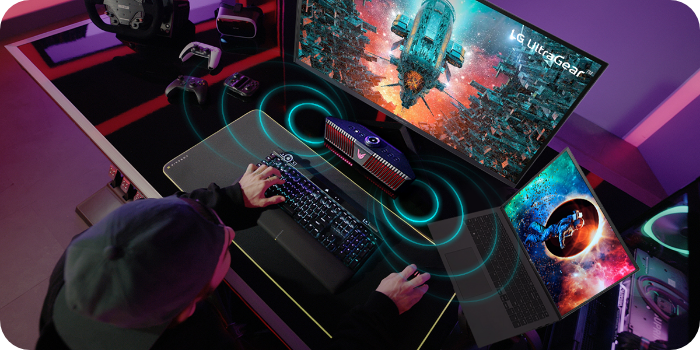
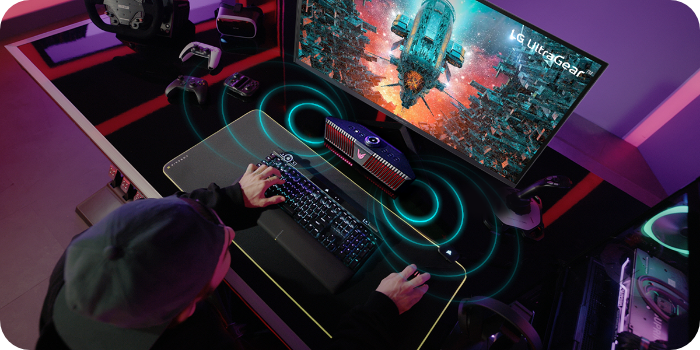
대만 수정

Changed region(s): [[0.6, 0.4286, 0.93, 1.0]]

diff --git a/src/tw/index.html b/src/tw/index.html
@@ -1191,27 +1191,6 @@
 													</a>
 												</div>
 											</div>
-											<div class="product__layer">
-												<a href="#" class="product__anchor"><span class="sr-only">detail view</span></a>
-												<div class="product__target">
-													<a href="https://www.lg.com/uk/fridge-freezers/lg-gsxv91bsae" target="_blank"
-														data-link-name="memberdays_productMouseHover_greenlife_GSXV91BSAE"
-														data-link-area="memberdays_2022"
-														class="product__link">
-														<div class="product__img">
-															<img src="../assets/images/tw/img_product_showroom_pastime01_02.png" alt="LG gram 16’’ 輕贏隨型 極致輕薄筆電 - 沉靜灰 (i5) 配備NVIDIA® GeForce® GTX™">
-														</div>
-														<div class="product__right">
-															<p class="product__name">LG gram 16’’ 輕贏隨型 極致輕薄筆電 - 沉靜灰 (i5) 配備NVIDIA® GeForce® GTX™</p>
-															<ul class="product__desc">
-																<li>16” 16:10 WQXGA (2560 x 1600) IPS 螢幕</li>
-																<li>Windows 11 Home</li>
-																<li>第 12 代Intel® Core™ 處理器, NVIDIA® GeForce® GTX™</li>
-															</ul>
-														</div>
-													</a>
-												</div>
-											</div>
 										</div>
 									</div>
 									<div class="product__track">

diff --git a/src/assets/css/index_tw.scss b/src/assets/css/index_tw.scss
@@ -180,17 +180,17 @@
 													@include mixins.translate(0, -50%);
 												}
 											}
-											&:nth-child(2) {
-												left: 60.19%;
-												top: 60.74%;
-												.product__target {
-													left: auto;
-													right: 38px;
-													top: 50%;
-													margin-left: 0;
-													@include mixins.translate(0, -50%);
-												}
-											}
+											// &:nth-child(2) {
+											// 	left: 60.19%;
+											// 	top: 60.74%;
+											// 	.product__target {
+											// 		left: auto;
+											// 		right: 38px;
+											// 		top: 50%;
+											// 		margin-left: 0;
+											// 		@include mixins.translate(0, -50%);
+											// 	}
+											// }
 										}
 									}
 								}
